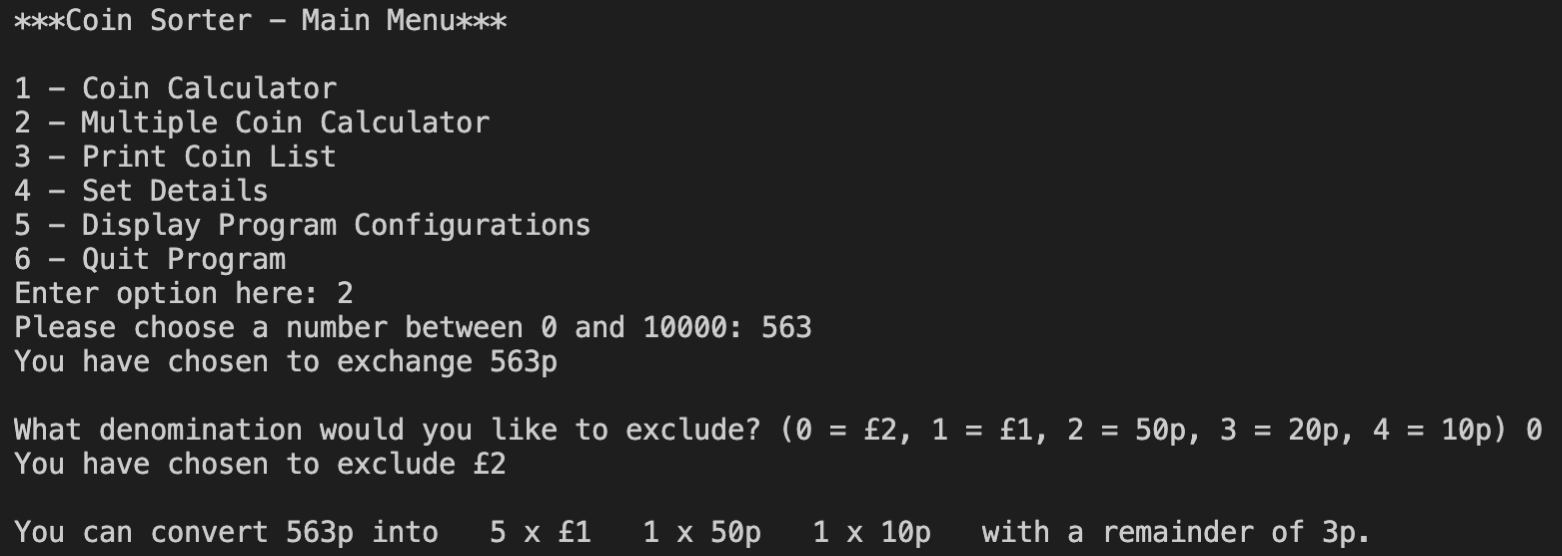
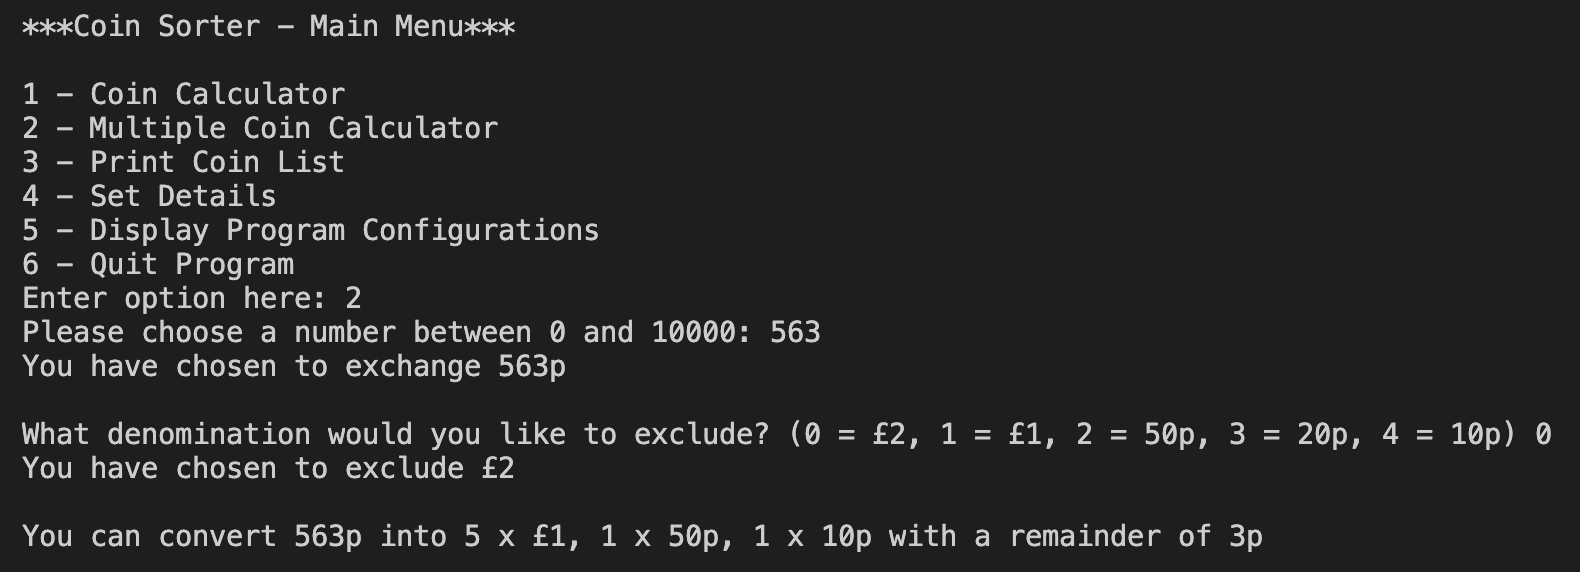
updated the screenshots, added a comment for the multicoin comma removal, added a colon after the current denominations are in GUI, changed the error message for minimum and maximum amount for further clarity

diff --git a/Capstone2_part1_part2.py b/Capstone2_part1_part2.py
@@ -150,11 +150,12 @@ def UserFriendlyPrintMultipleCoin(MCSResultTup):
     else:
         StringToPrint = "You can convert " + str(MCSResultTup[2]) + "p into "
 
-        # This will loop through the list of number of coins and concatenates them to the string
+        # This will loop through the list of number of coins and concatenates them to the string.
         for nCoinsIndex in range(4):
-            # If the chosen value fits into a denomination, for example 15p into 10p, then the program will state that 15p fits into 1 x  10p
+            # If the chosen value fits into a denomination, for example 15p into 10p, then the program will state that 15p fits into 1 x  10p.
             if MCSResultTup[0][nCoinsIndex] != 0:
                 StringToPrint += str(MCSResultTup[0][nCoinsIndex]) + " x " +  denominationText2[nCoinsIndex] + ", "
+        # This will delete the last 2 characters. We do this to remove the comma at the end of the StringToPrint message.
         StringToPrint = StringToPrint[0:-2] + " "
 
         # If there is a remainder, the if statement will concatenate the value to create a new string stating the remainder.
@@ -361,4 +362,4 @@ def MainMenu():
             print("integers only!")
 
 
-print(GetCurrencyData())
+MainMenu()

diff --git a/GUIFINAL.py b/GUIFINAL.py
@@ -353,7 +353,7 @@ class Ui_MainWindow(object):
                     RadioFailBoo = True
                     errormessage = "Please select a currency"
             else: 
-                errormessage = "Please give us a reasonable minimum and maximum"
+                errormessage = "Your minimum amount cannot be less than 0.\n\nYour maximum must be above you minimum amount."
 
                 #Change radio fail boolean to True to prevent the function from being run with false data.
                 RadioFailBoo = True

diff --git a/Capstone2_part3.py b/Capstone2_part3.py
@@ -146,7 +146,7 @@ def PrintCoinList():
 
     '''
     #This initiates the string to return.
-    StringToPrint = "The available denominations are\n"
+    StringToPrint = "The available denominations are:\n"
 
     #Loop through the available denominations and concatenate them to the string with a new line after each.
     for denom in denominationText:
